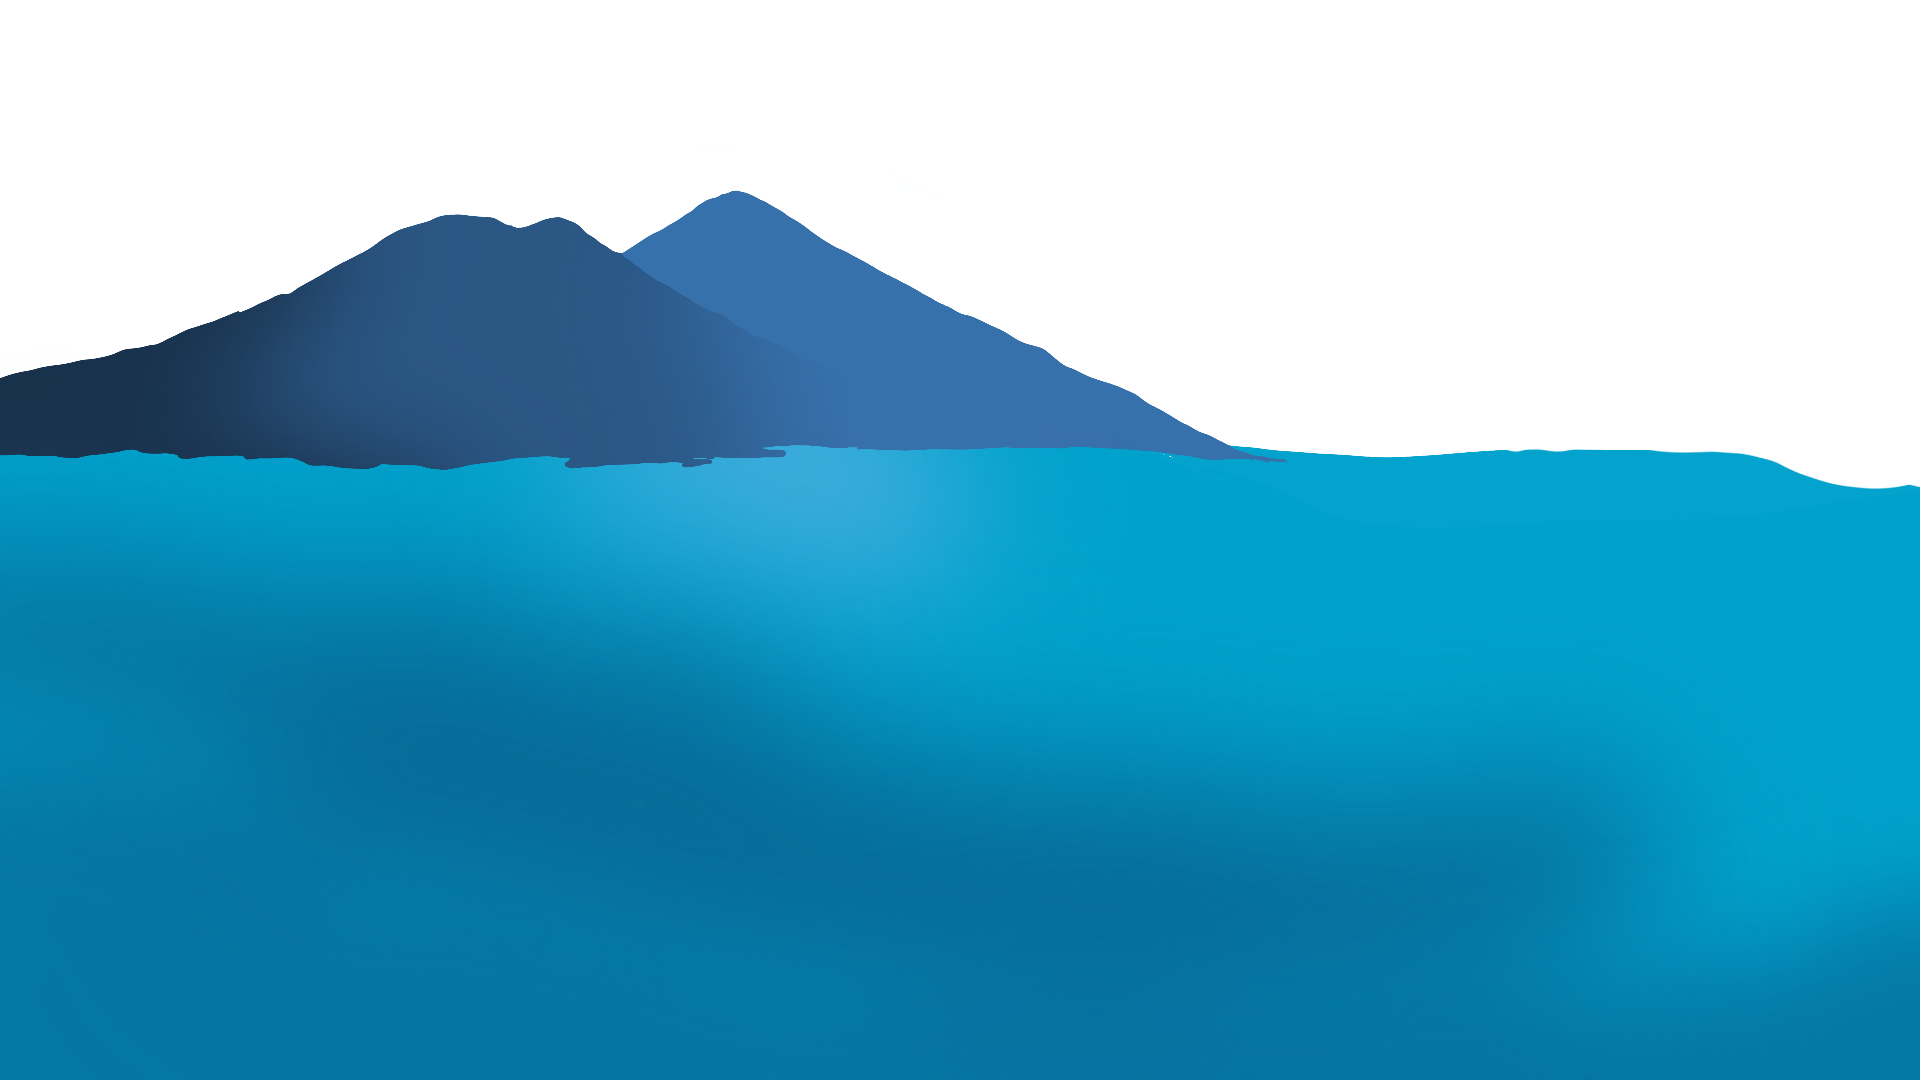
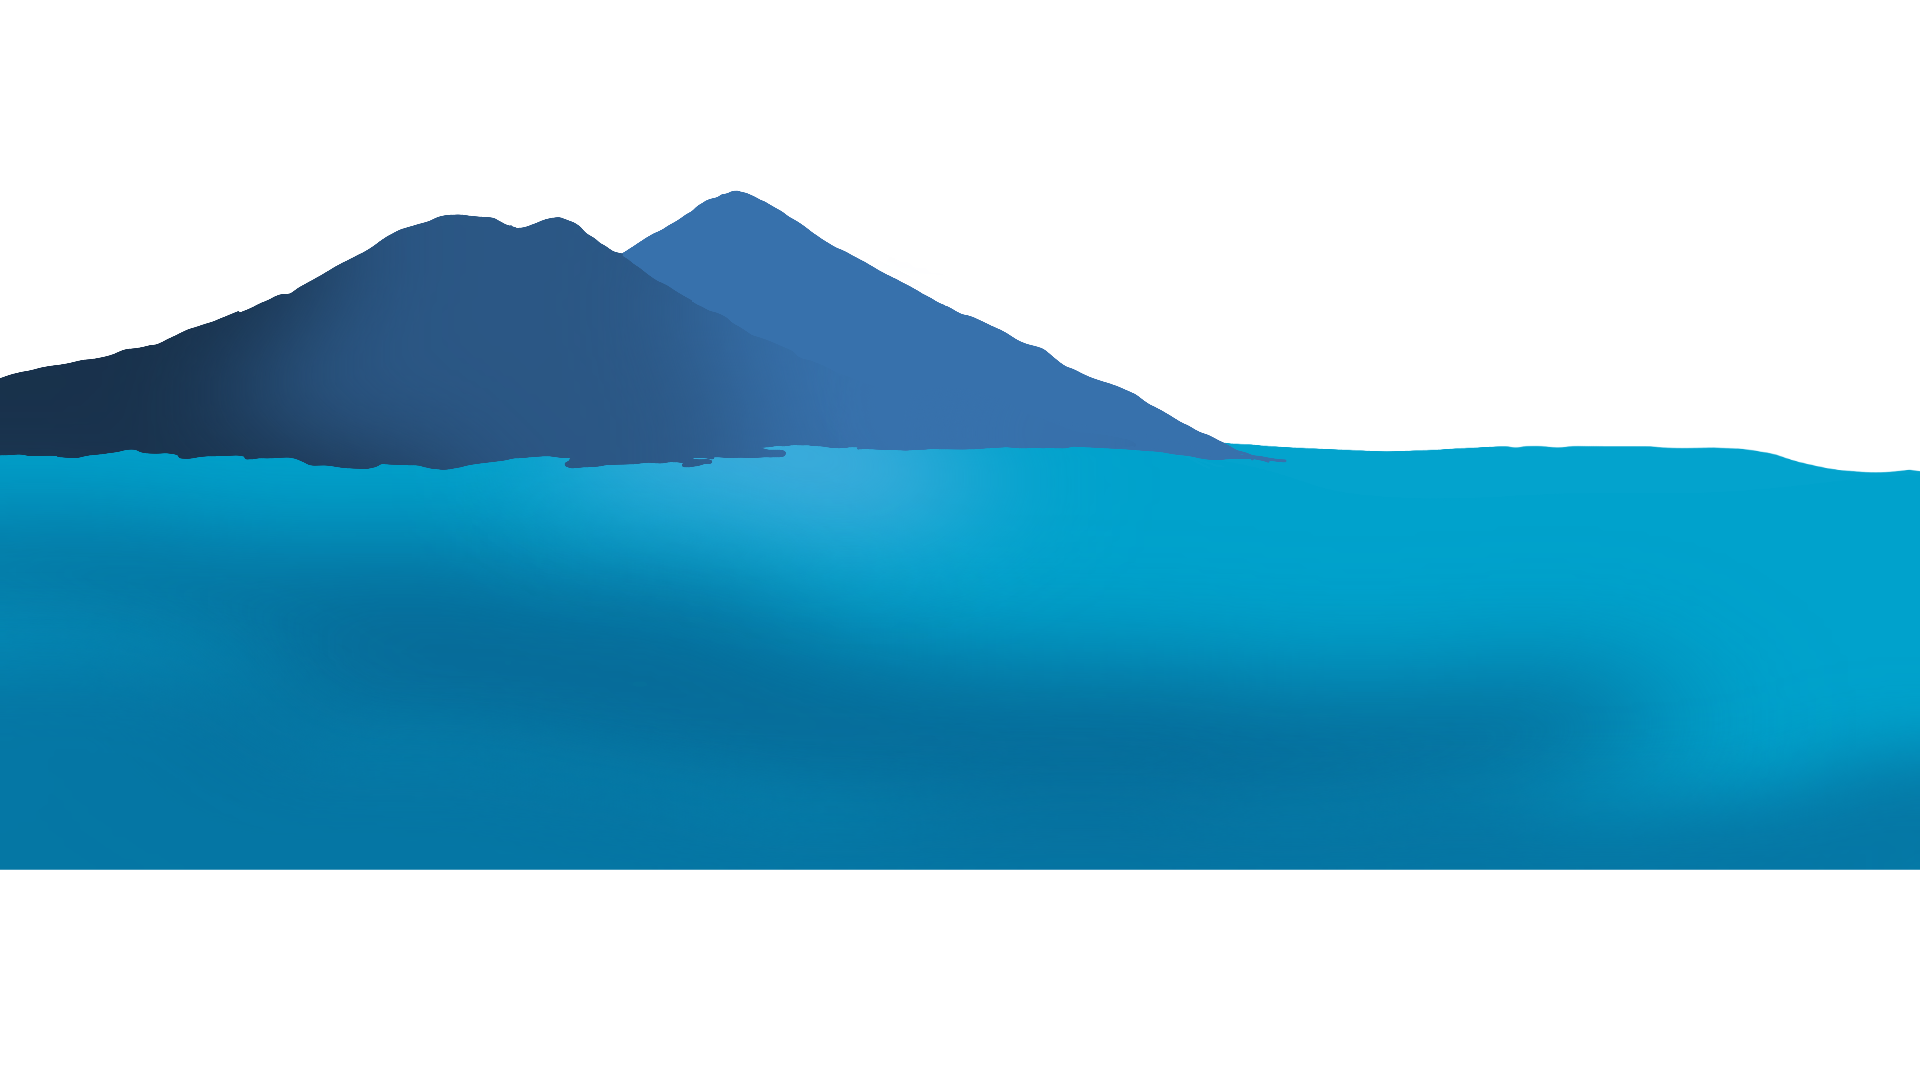
Front-Container mobile changes
All mobile styles were done

diff --git a/src/assets/style.css b/src/assets/style.css
@@ -20,8 +20,15 @@ body {
     scroll-behavior: smooth;
 }
 
+.front-button-container {
+    width: 100%;
+    height: 100vh;
+    position: absolute;
+    z-index: 1;
+}
+
 .front-container {
-    width: 100vw;
+    width: 100%;
     min-width: 360px;
     height:100vh;
     display: flex;
@@ -32,11 +39,14 @@ body {
 }
 
 .image-container{
+    position: relative;
     width: 100%;
     height: 100%;
     display: flex;
     justify-content: center;
     align-items: center;
+    position: absolute;
+    z-index: 0;
 }
 
 .front-page__background {
@@ -49,36 +59,187 @@ body {
     text-align: center;
     font-size:1.5rem;
     color: #fff;
+    font-family: system-ui, -apple-system, BlinkMacSystemFont, 'Segoe UI', Roboto, Oxygen, Ubuntu, Cantarell, 'Open Sans', 'Helvetica Neue', sans-serif;
 }
 
 .sky {
+    transition: 1s;
     position: absolute;
     top: 0;
     width: 100vw;
     height: 50vh;
-    background: linear-gradient(180deg, #017FFD 0%, #489FF7 30.73%, #E4F1FF 100%);
+    background: linear-gradient(180deg, rgba(1,127,253,1) 0%, rgba(72,195,247,1) 57%, rgba(255,255,255,1) 100%);
+}
+
+.sky2 {
+    opacity: 0;
+    position: absolute;
+    top: 0;
+    width: 100vw;
+    height: 50vh;
+    background: linear-gradient(180deg, #3A1CEF 0%, #BF32A5 40.89%, #FF7F23 69.79%, #FAFAFA 100%);
+    transition:3s;
+}
+
+.sky2-show { 
+    transition: 3s;
+    opacity: 1;
 }
 
 .sun{
     position: absolute;
     top: 30vh;
-    left: 55vw;
+    left: 45vw;
     background-color:#fff;
-    width: 10vw;
-    height: 10vw;
+    width: 7rem;
+    height: 7rem;
     border-radius: 50%;
+    transition:3s;
 }
 
-#b6::after{
-    content:'';
+.sunset {
+    transition: 5s;
+    transform:translateY(20vh);
+}
+
+/* Theme button*/
+
+.theme-button-container {
+    width: 100%;
+    display: flex;
+    align-items: center;
+    flex-direction: column;
     position: absolute;
-    bottom: 0;
-    width: 100vw;
-    height: 10vw;
-    background-color: #0c1926;
+    bottom: 5vh;
+    z-index: 2;
 }
 
+.theme-button__hidden{
+    z-index: 0;
+}
+
+.theme-button {
+    width:62px;
+    height:auto;
+    margin: 10px;
+    border: 2px solid #fff;
+    border-radius: 50px;
+    cursor:pointer;
+}
+
+.fa-angle-down{
+    font-size:1.5rem;
+}
+
+.switch {
+    transition: transform 0.5s;
+    margin:3px 3px;
+    width:25px;
+    height:25px;
+    border: 2px solid #fff;
+    border-radius: 50%;
+    background: url('./pics/darkthemeicon.png') no-repeat;
+    background-size: 12px;
+    background-position: center;
+}
+
+
+
+.switch-change {
+    transform: translateX(100%);
+    background-color: #fff;
+    background: url('./pics/lightthemeicon.png') no-repeat;
+    background-size: 24px;
+    background-position: center;
+}
+
+@keyframes sky-color-todark {
+    0% {
+        opacity: 0;
+    }
+    100%{
+        opacity: 1;
+    }
+}
+
+
+  /* Header menu*/
+
+.main-nav {
+    width: 100%;
+    position: absolute;
+    z-index: 1;
+}
+  
+.main-menu {
+    height: 100vh;
+    background-color: rgba(12, 25, 38, 0.9) ;
+    list-style: none;
+    margin-top: 0;
+    margin-bottom: 0;
+    padding-left: 0;
+    display: flex;
+    flex-direction:column;
+    align-items:center;
+    justify-content:center;
+    transition: transform 0.3s;
+    transform: translateX(100%);
+}
+
+.toggle-menu{
+    display: block;
+    position:absolute;
+    width:40px;
+    height:40px;
+    padding:5px 0;
+    cursor:pointer;
+    top:2rem;
+    right:2rem;
+    text-align: center;
+    z-index:1;
+}
+
+.toggle-menu i {
+    font-size:30px;
+}
+
+.main-menu__show {
+    transform: translateX(0);
+}
+
+.main-menu__item {
+    padding:1em;
+}
+
+.main-menu__link {
+    font-family: system-ui, -apple-system, BlinkMacSystemFont, 'Segoe UI', Roboto, Oxygen, Ubuntu, Cantarell, 'Open Sans', 'Helvetica Neue', sans-serif;
+    font-size: 2rem;
+    color: #fff;
+    text-decoration: none;
+}
+
+@media (min-width: 768px) {
+    .main-menu {
+        flex-direction:row;
+        transform: translateX(0);
+        background-color: transparent;
+        height:auto;
+    }
+
+    .toggle-menu {
+        display: none;
+    }
+}
+
+/* Explore button*/
+
+i{
+    color: #fff;
+}
+
+/*-----------------------------------------*/
 /*Container ABOUT*/
+/*-----------------------------------------*/
 
 .container__about{
     width: 100%;

diff --git a/src/index.html b/src/index.html
@@ -5,12 +5,38 @@
     <meta http-equiv="X-UA-Compatible" content="IE=edge">
     <meta name="viewport" content="width=device-width, initial-scale=1.0">
     <link rel="stylesheet" href="./assets/style.css">
+    <!-- <link rel="stylesheet" href="./assets/css/desktop.css" media="(min-width: 780px)"> -->
+    <script src="https://kit.fontawesome.com/e3c9e02f78.js" crossorigin="anonymous"></script>
     <title>Cristian Aguirre</title>
 </head>
 <body>
     <main class="front-container">
+        <section class="front-button-container">
+
+            <nav class="main-nav">
+                <div class="toggle-menu" id="toggle-menu">
+                    <i class="fa-solid fa-bars" id="icono-menu"></i>
+                </div>
+                <ul id="main-menu" class="main-menu">
+                    <li class="main-menu__item"><a class="main-menu__link" href="">About</a></li>
+                    <li class="main-menu__item"><a class="main-menu__link" href="">Home</a></li>
+                    <li class="main-menu__item"><a class="main-menu__link" href="">Skills</a></li>
+                    <li class="main-menu__item"><a class="main-menu__link" href="">Projects</a></li>
+                    <li class="main-menu__item"><a class="main-menu__link" href="">Contact</a></li>
+                </ul>
+            </nav>
+
+            <section class="theme-button-container" id="theme-button-container">
+                <div class="theme-button">
+                    <div  class="switch" id="switch"></div>
+                </div>
+                <i class="fa-solid fa-angle-down"></i>
+            </section>
+
+        </section>
         <section class="image-container">
-            <div class="sky"></div>
+            <div class="sky" id="sky"></div>
+            <div class="sky2" id="sky2"></div>
             <div class="sun" id="sun"></div>
             <img src="./assets/pics/b1.PNG" alt="" id="b1" class="front-page__background b1"></img>
             <img src="./assets/pics/b2.PNG" alt="" id="b2" class="front-page__background b2"></img>
@@ -22,9 +48,7 @@
             </div>
             <img src="./assets/pics/b5.PNG" alt="" id="b5" class="front-page__background b5"></img>
             <img src="./assets/pics/b6.PNG" alt="" id="b6" class="front-page__background b6"></img>
-        </section>
-        <section>
-            <p><a>Explore</a></p>
+            <div class="background6-back"></div>
         </section>
     </main>
     <section class="sections container__about">
@@ -39,7 +63,7 @@
     <section class="sections container__contact">
 
     </section>
-
+    
     <script src="./assets/index.js"></script>
 </body>
 </html>

diff --git a/src/assets/index.js b/src/assets/index.js
@@ -1,15 +1,46 @@
-window.addEventListener('scroll', () => {
-    let t1= document.getElementById('title')
-    let t2= document.getElementById('subtitle')
-    let sun = document.getElementById('sun')
-    let b6 = document.getElementById('b6')
-    let b5 = document.getElementById('b5')
-    let b4 = document.getElementById('b4')
+// window.addEventListener('scroll', () => {
+let t1= document.getElementById('title')
+let t2= document.getElementById('subtitle')
+let sun = document.getElementById('sun')
+//     let sky = document.getElementById('sky')
+//     let b5 = document.getElementById('b5')
+//     let b4 = document.getElementById('b4')
+//     let b3 = document.getElementById('b3')
+//     let b2 = document.getElementById('b2')
+//     let b1 = document.getElementById('b1')
 
+    
+
+//     t1.style.transform = `translateX(-${window.scrollY/2}px)`
+//     t2.style.transform = `translateX(${window.scrollY/2}px)`
+//     sun.style.transform = `translateY(${window.scrollY/2}px)`
+//     b5.style.transform = `translateY(${(window.scrollY/7)}px)`
+//     b4.style.transform = `translateY(${(window.scrollY/8)}px)`
+//     b3.style.transform = `translateY(${(window.scrollY/9)}px)`
+//     b2.style.transform = `translateY(${(window.scrollY/4)}px)`
+//     b1.style.transform = `translateY(${(window.scrollY/4)}px)`
+//     sky.style.transform = `translateY(${(window.scrollY/4)}px)`
+// })
+
+window.addEventListener('scroll', () => {
     t1.style.transform = `translateX(-${window.scrollY/2}px)`
     t2.style.transform = `translateX(${window.scrollY/2}px)`
-    sun.style.transform = `translateY(${window.scrollY/4}px)`
-    b6.style.transform = `translateY(${-(window.scrollY/4)}px)`
-    b5.style.transform = `translateY(${-(window.scrollY/4.5)}px)`
-    b4.style.transform = `translateY(${-(window.scrollY/6)}px)`
+})
+
+const toggleMenuElement = document.getElementById('toggle-menu')
+const mainMenuElement = document.getElementById('main-menu')
+const menuclose = document.getElementById('icono-menu')
+const themebutton = document.getElementById('switch')
+const themebuttoncontainer = document.getElementById('theme-button-container')
+const sky2 = document.getElementById('sky2')
+
+toggleMenuElement.addEventListener('click', () => { 
+    themebuttoncontainer.classList.toggle('theme-button__hidden')
+    mainMenuElement.classList.toggle('main-menu__show')
+})
+
+themebutton.addEventListener('click', () => {
+    themebutton.classList.toggle('switch-change')
+    sun.classList.toggle('sunset')
+    sky2.classList.toggle('sky2-show')
 })

diff --git a/src/assets/css/desktop.css b/src/assets/css/desktop.css
@@ -1,0 +1,12 @@
+@media screen and (min-width: 768px) {
+    .main-menu {
+        flex-direction:row;
+        transform: translateX(0);
+        background-color: transparent;
+        height:auto;
+    }
+
+    .toggle-menu {
+        display: none;
+    }
+}
